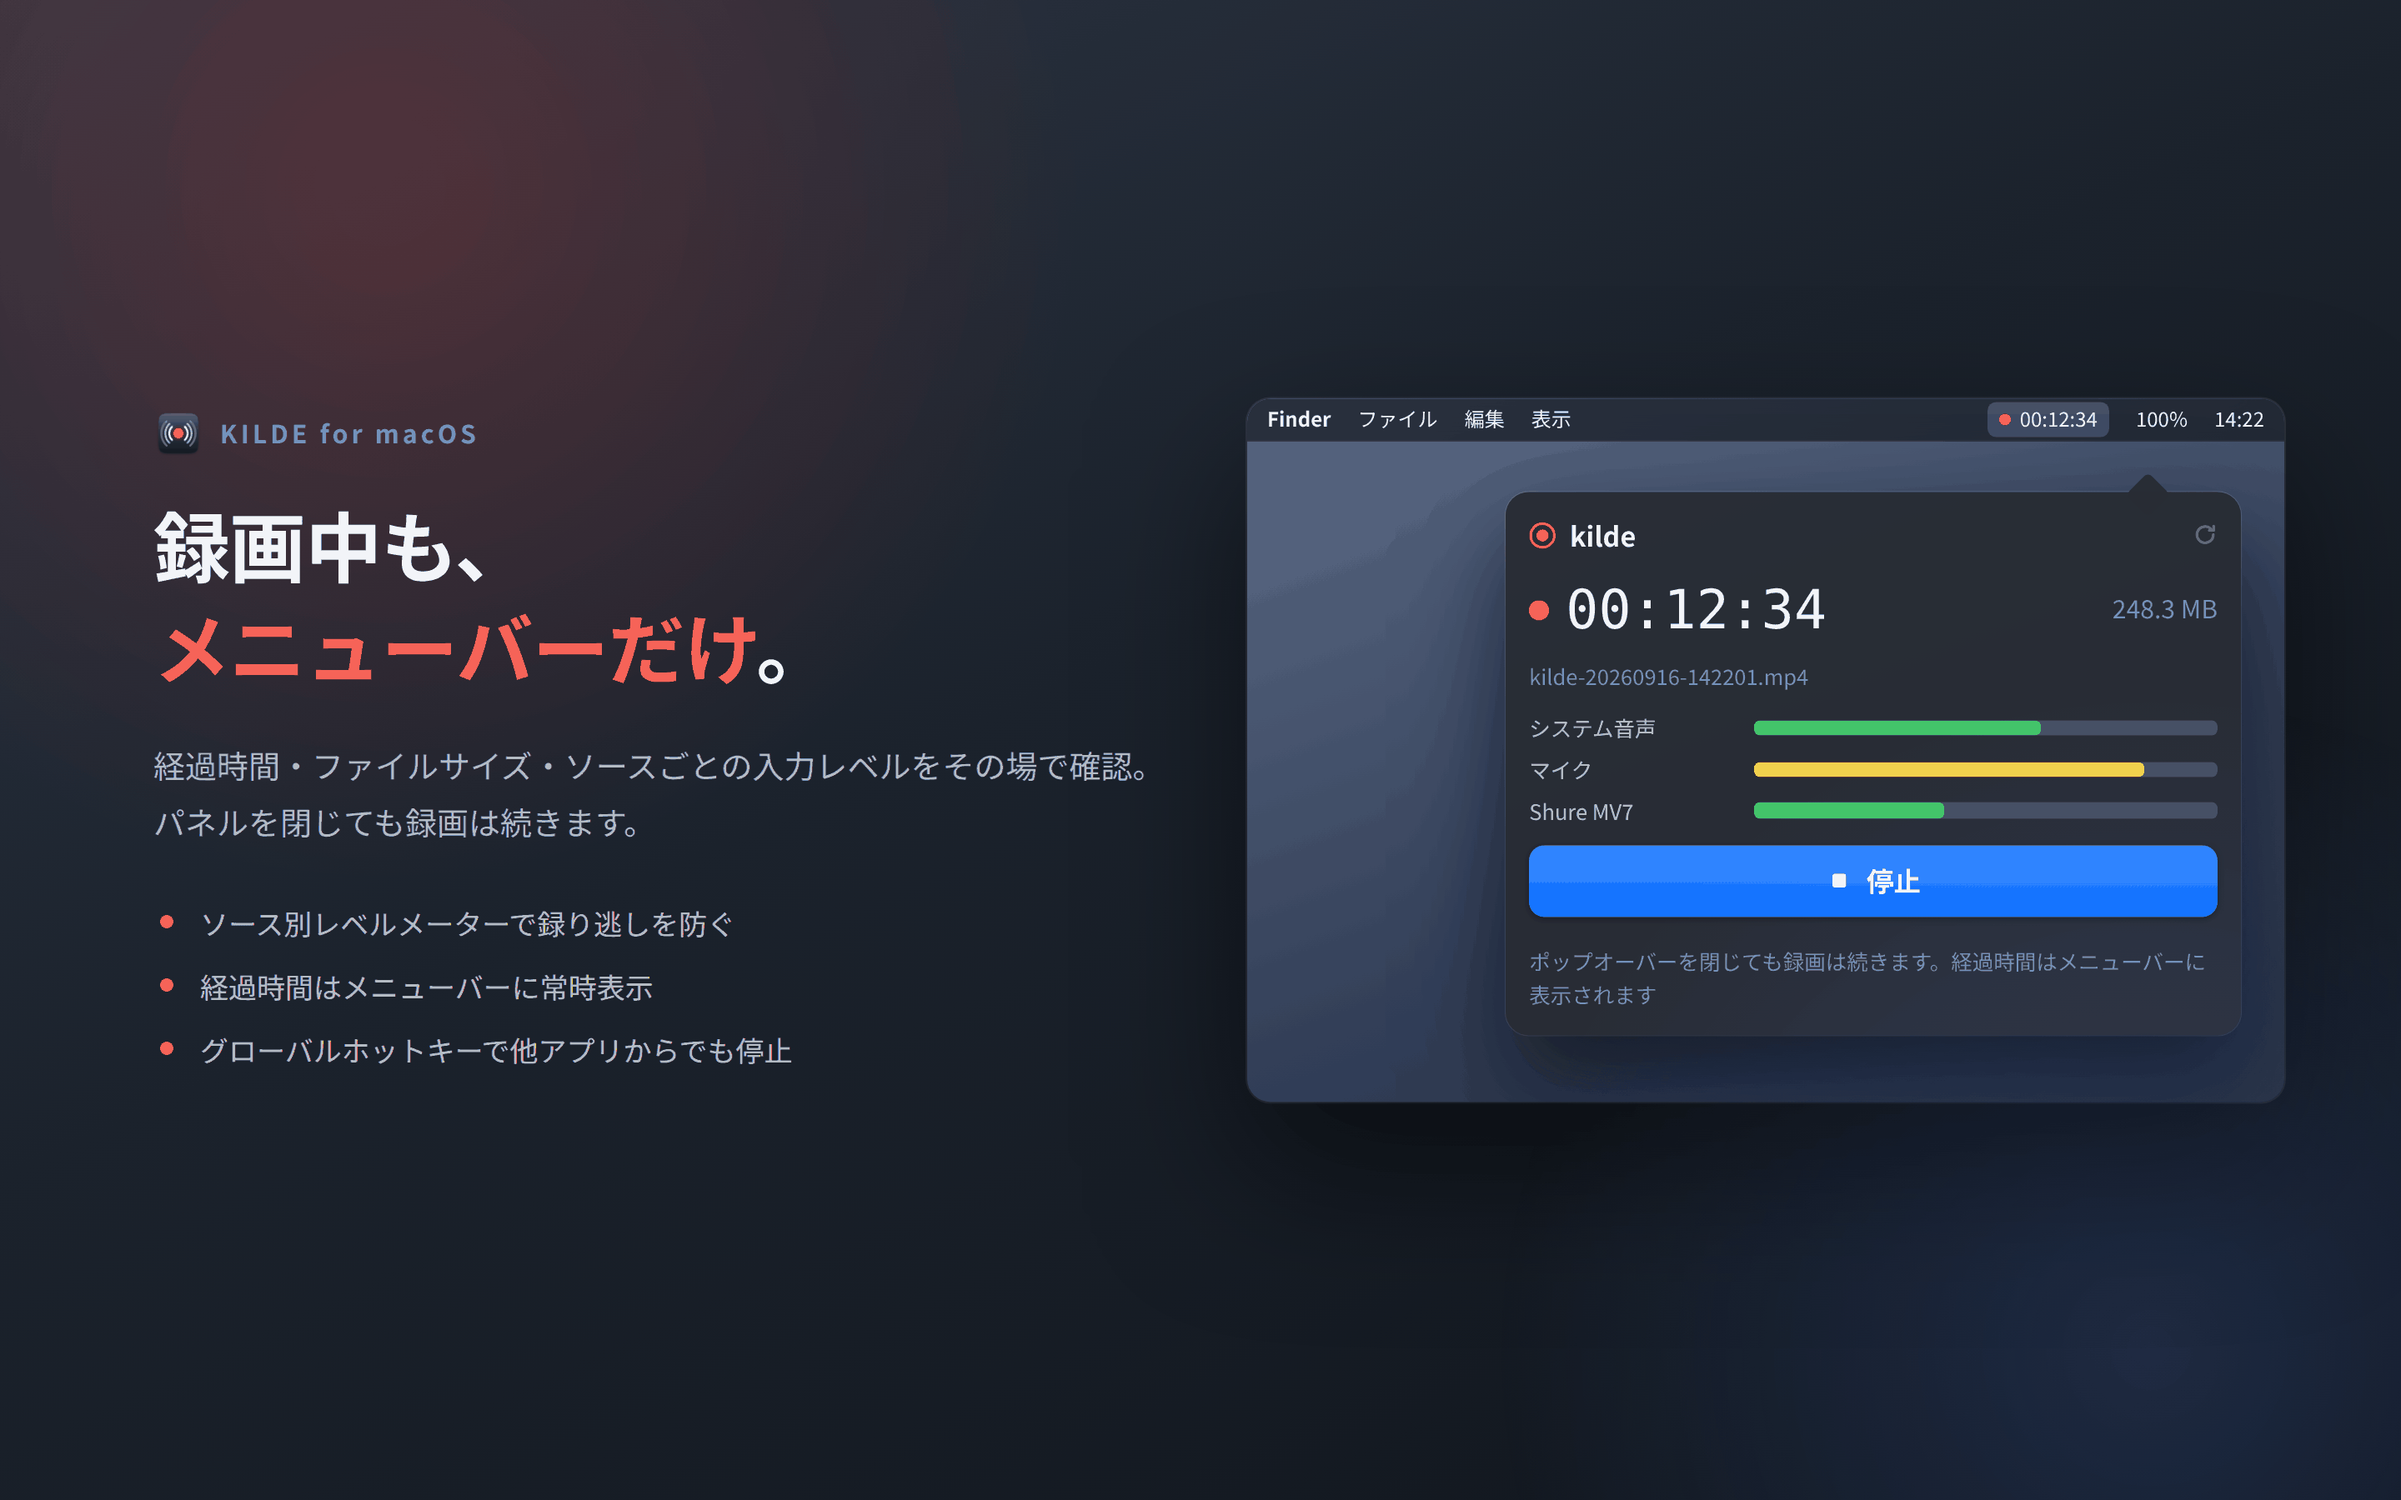
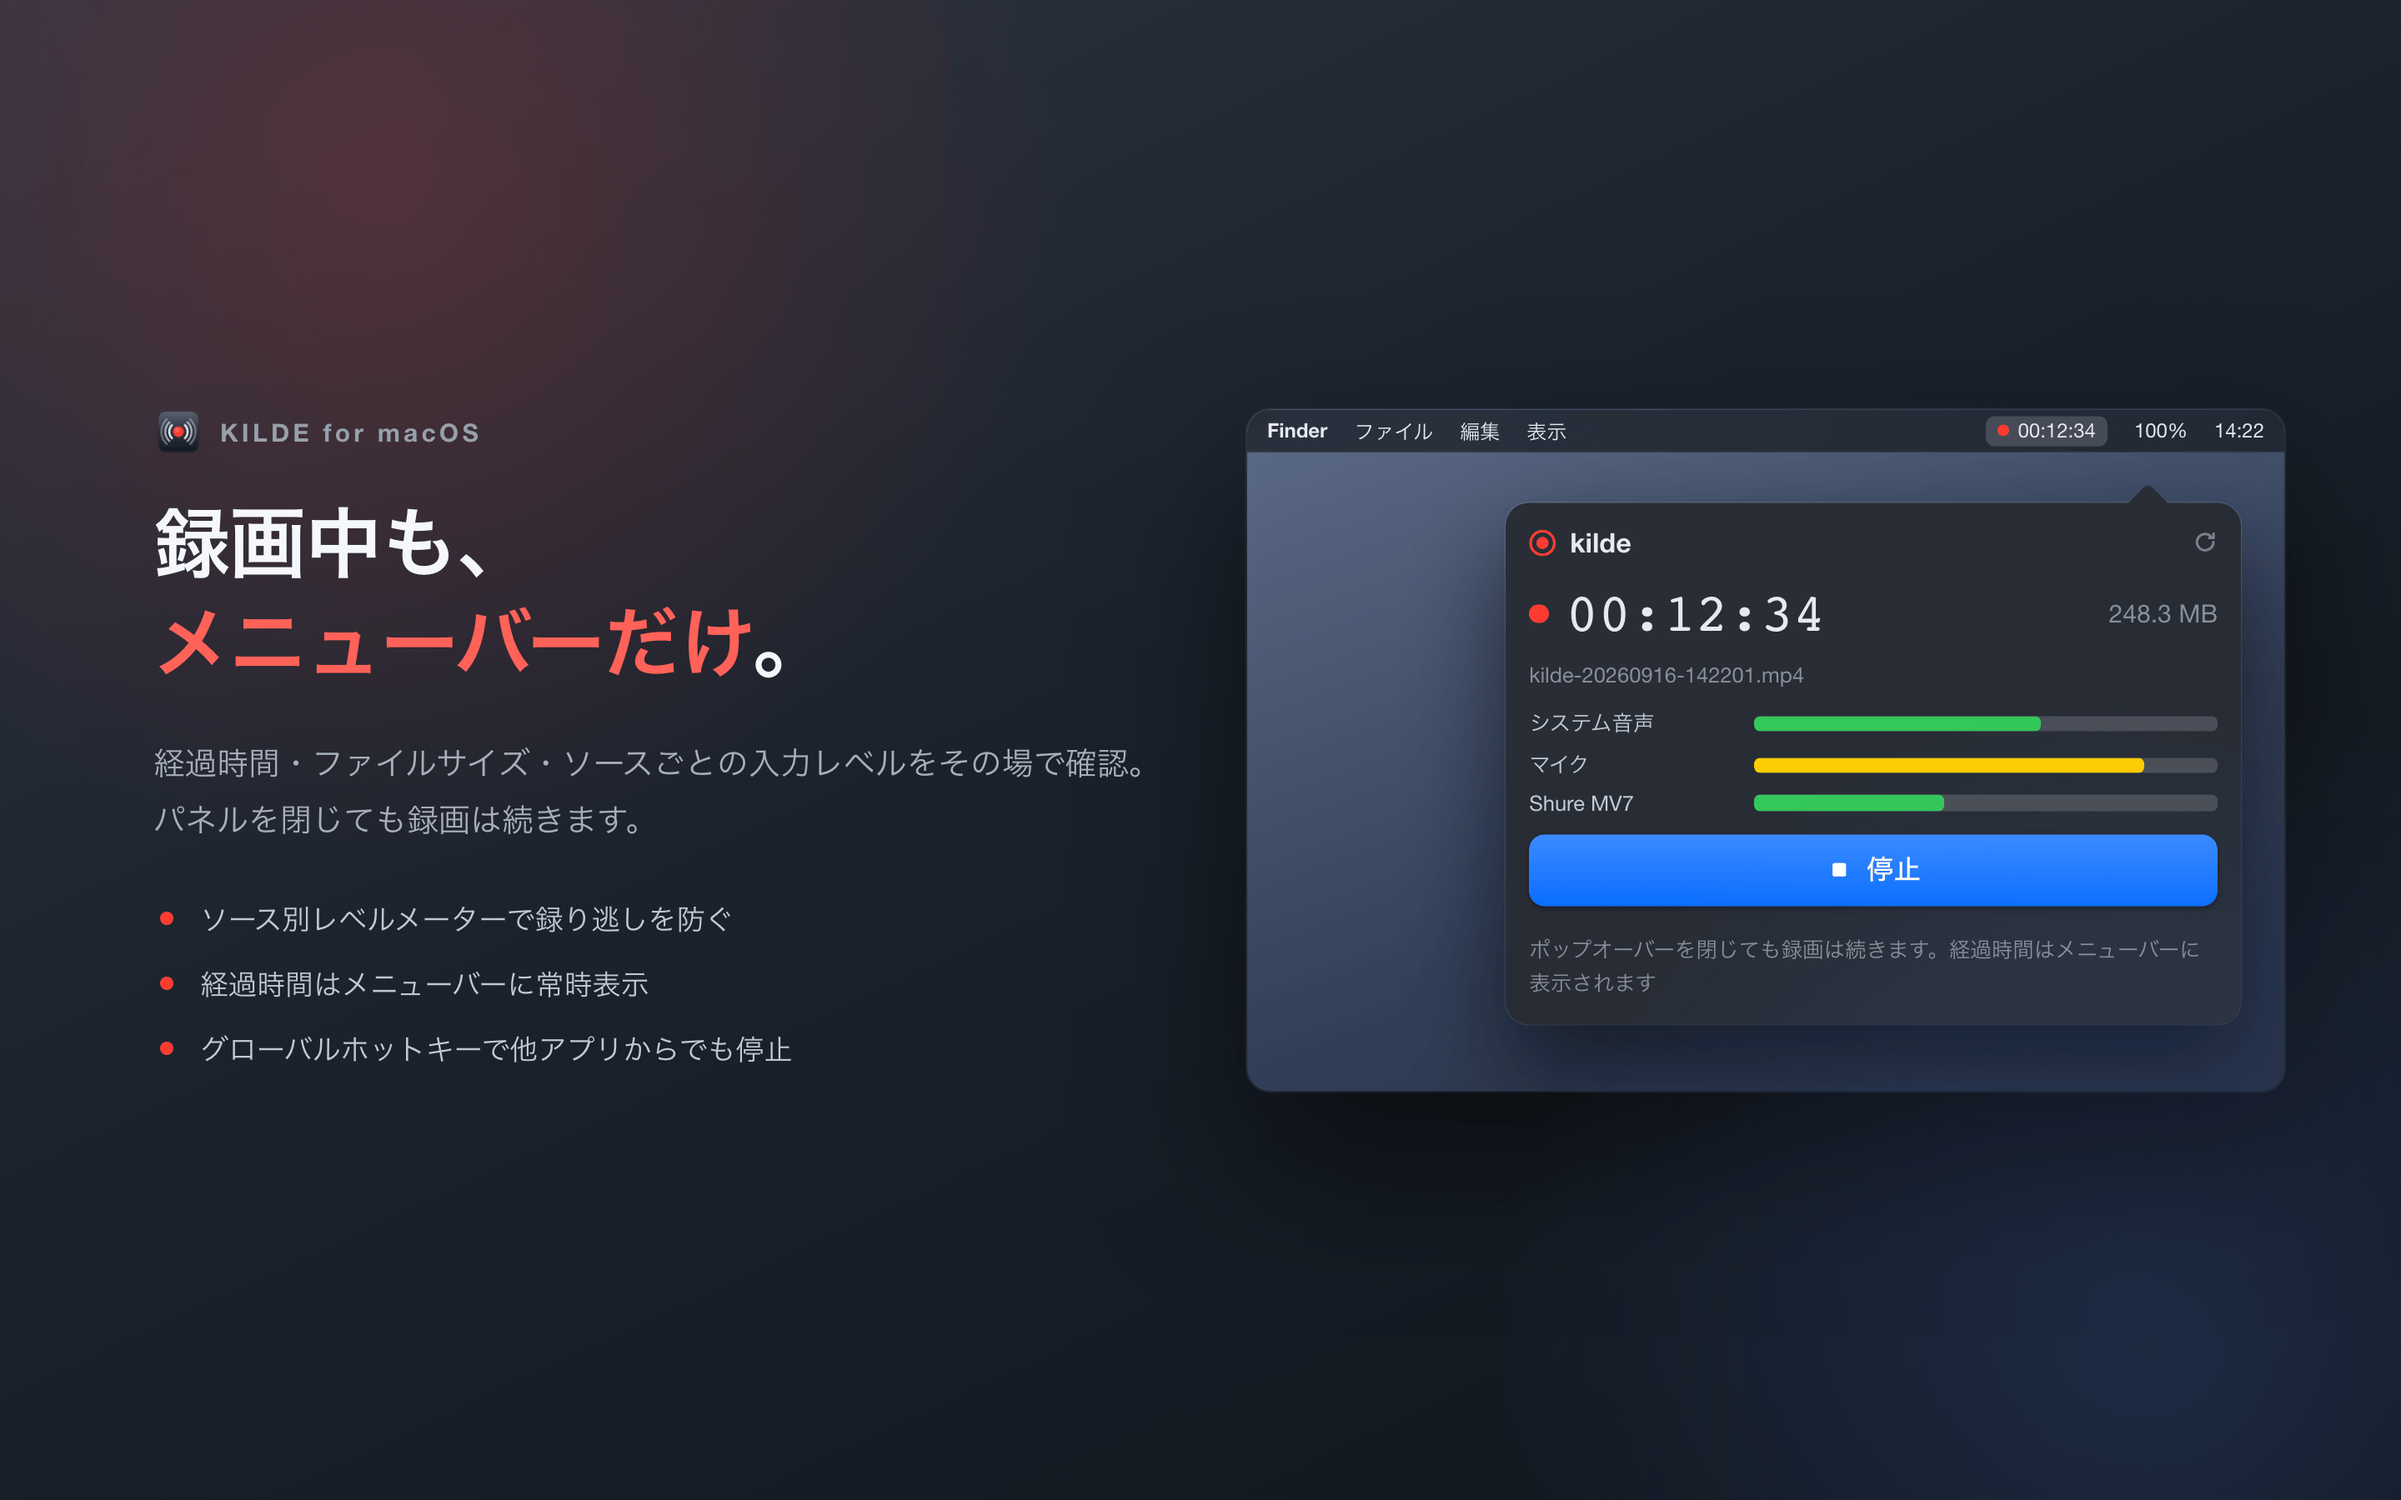
Address CodeRabbit findings on the App Store screenshot tooling
- build.py: the 01 screenshot claimed the save location is shared with the
  CLI defaults, which is false under App Sandbox (the MAS build keeps its
  config inside the app container). Replaced with a MAS-true bullet.
- panel.py: drop the Sparkle "check for updates" section from panel_done()
  and the now-unused update glyph. The screenshots mock the KildeGUI-AppStore
  binary, which has no update UI (ContentView excludes it via #if !APPSTORE).
- render.py / build.py: resolve all paths from the script location instead of
  the current working directory. render.py now reads icon.py's output
  (../icon) and writes to ../png where build.py reads icon_1024.png; build.py
  writes straight into ../screenshots. The README workflow now runs as
  documented from any directory.
- README: document the 256-color pngquant step for committing screenshots and
  the rule that mocks must match the MAS binary, and regenerate the five
  screenshots from the fixed sources (optimized, ~2.5MB total).

diff --git a/docs/appstore/tools/panel.py b/docs/appstore/tools/panel.py
@@ -12,7 +12,6 @@ def sym(name, color="currentColor", size=13):
         "folder": '<path d="M1.5 4.2A1.2 1.2 0 0 1 2.7 3h3.1l1.3 1.5h5.2a1.2 1.2 0 0 1 1.2 1.2v6.1a1.2 1.2 0 0 1-1.2 1.2H2.7a1.2 1.2 0 0 1-1.2-1.2z" fill="none" stroke="%s" stroke-width="1.4" stroke-linejoin="round"/>' % color,
         "keyboard": '<rect x="1" y="3.5" width="14" height="9" rx="1.6" fill="none" stroke="%s" stroke-width="1.4"/><path d="M4 6.4h.01M6.5 6.4h.01M9 6.4h.01M11.5 6.4h.01M4 9h.01M6.5 9h.01M9 9h.01M11.5 9h.01M5.5 11.3h5" stroke="%s" stroke-width="1.5" stroke-linecap="round"/>' % (color, color),
         "film": '<rect x="1.5" y="3" width="13" height="10" rx="1.3" fill="none" stroke="%s" stroke-width="1.4"/><path d="M4.6 3v10M11.4 3v10" stroke="%s" stroke-width="1.2"/>' % (color, color),
-        "update": '<circle cx="8" cy="8" r="6.4" fill="none" stroke="%s" stroke-width="1.4"/><path d="M8 4.6v3.6l2.4 1.5" stroke="%s" stroke-width="1.5" stroke-linecap="round" fill="none"/>' % (color, color),
         "check": '<circle cx="8" cy="8" r="7" fill="%s"/><path d="M4.8 8.2l2.2 2.2 4.2-4.6" fill="none" stroke="#fff" stroke-width="1.8" stroke-linecap="round" stroke-linejoin="round"/>' % color,
         "stop": '<rect x="4" y="4" width="8" height="8" rx="1.3" fill="%s"/>' % color,
         "window": '<rect x="1.5" y="2.5" width="13" height="11" rx="1.6" fill="none" stroke="%s" stroke-width="1.4"/><path d="M1.5 5.6h13" stroke="%s" stroke-width="1.4"/>' % (color, color),
@@ -120,9 +119,9 @@ def panel_done():
         <div class="rr">{sym("film","#8A8F98")}<span>kilde-20260915-101744.mp4</span></div>
         <div class="rr">{sym("film","#8A8F98")}<span>kilde-20260914-193012.m4a</span></div>
       </div>''')
-    body += section("アップデート", f'''
-      <div class="line">{sym("update","#C9CED6")}<span>0.3.0 (build 41)</span>
-        <span class="spacer"></span><span class="btn">アップデートを確認</span></div>''')
+    # 「アップデート」セクションは描かない — ここは MAS 版スクリーンショットのモックで、
+    # 実機 (KildeGUI-AppStore) は更新 UI を持たない (ContentView.swift の #if !APPSTORE。
+    # MAS では配信が App Store に一本化されるため)。提出画像が実物と一致しなくなる
     return body
 
 

diff --git a/docs/appstore/tools/build.py b/docs/appstore/tools/build.py
@@ -6,8 +6,12 @@ sys.path.insert(0, str(pathlib.Path(__file__).parent))
 import panel
 from playwright.async_api import async_playwright
 
-OUT = pathlib.Path(__file__).parent / "out"; OUT.mkdir(exist_ok=True)
-ICON = (pathlib.Path(__file__).parent.parent / "png" / "icon_1024.png")
+HERE = pathlib.Path(__file__).parent
+# スクリーンショットは README §2 が管理する screenshots/ へ直接書き出す
+# (カレントディレクトリに依存しない)。コミット前に 256 色へ最適化する手順は README §3
+OUT = HERE.parent / "screenshots"
+OUT.mkdir(exist_ok=True)
+ICON = HERE.parent / "png" / "icon_1024.png"
 
 CSS = """
 * { box-sizing: border-box; margin: 0; padding: 0; }
@@ -143,7 +147,7 @@ SHOTS = [
          sub="QuickTime では録れない「相手の声」を、自分の声と一緒に。メニューバーからワンクリックで。",
          points=["画面・ウィンドウ・音声のみを選んで収録",
                  "1 トラック合成／ソースごとに分離を切り替え",
-                 "保存先の選択は CLI の既定値としても共有"],
+                 "選んだ音声と保存先は次回も保持"],
          body=panel.panel_setup()),
     dict(name="02-recording",
          h1='録画中も、<br><span class="hl">メニューバーだけ</span>。',

diff --git a/docs/appstore/tools/render.py b/docs/appstore/tools/render.py
@@ -1,8 +1,13 @@
-import asyncio, pathlib, sys
+import asyncio, pathlib
 from playwright.async_api import async_playwright
 
-SRC = pathlib.Path("svg")
-OUT = pathlib.Path("png"); OUT.mkdir(exist_ok=True)
+HERE = pathlib.Path(__file__).parent
+# SVG は icon.py の出力先 (docs/appstore/icon)、PNG は build.py が読む場所
+# (docs/appstore/png)。実行時のカレントディレクトリに依存させない —
+# README §3 の手順をどこから実行しても同じ場所を読み書きするため
+SRC = HERE.parent / "icon"
+OUT = HERE.parent / "png"
+OUT.mkdir(exist_ok=True)
 
 # ピクセルサイズ -> 使う SVG 版。小さいほど簡略版を使う
 PLAN = {16:"small", 32:"small", 64:"mid", 128:"full", 256:"full", 512:"full", 1024:"full"}
